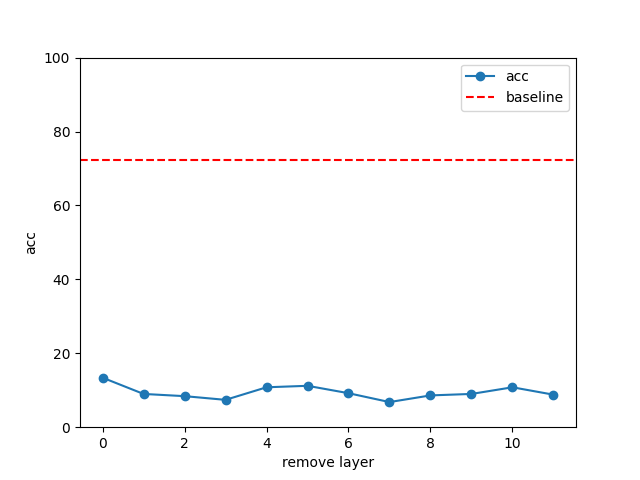
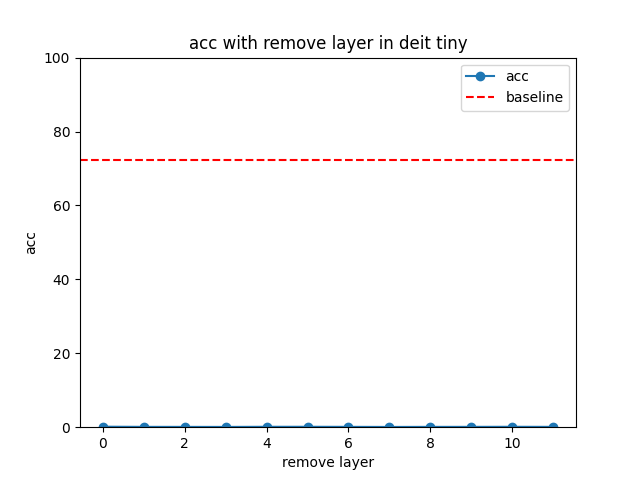
add deit small and tiny results

diff --git a/plot/get_res_two.py b/plot/get_res_two.py
@@ -1,0 +1,47 @@
+import os
+# 绘图
+import matplotlib.pyplot as plt
+import numpy as np
+
+with open("log_small.txt") as f:
+    lines = f.readlines()
+    name = None
+    acc = None
+    acc_small_list = []
+    for line in lines:
+        if "test_acc1" in line:
+            acc = float(line[line.index("test_acc1")+12+1:line.index(', "test_acc5":')])
+            acc_small_list.append(acc)
+        else:
+            if name is not None and acc is not None:
+                print(name, acc)
+            name = line[:-1]
+            
+with open("log_tiny.txt") as f:
+    lines = f.readlines()
+    name = None
+    acc = None
+    acc_tiny_list = []
+    for line in lines:
+        if "test_acc1" in line:
+            acc = float(line[line.index("test_acc1")+12+1:line.index(', "test_acc5":')])
+            acc_tiny_list.append(acc)
+        else:
+            if name is not None and acc is not None:
+                print(name, acc)
+            name = line[:-1]
+# 绘制acc曲线
+x = np.arange(0, len(acc_small_list))
+plt.plot(x, acc_small_list, label="deit_small", marker='o')
+plt.plot(x, acc_tiny_list, label="deit_tiny", marker='o')
+plt.xlabel("remove layer")
+plt.ylabel("acc")
+# 画一条横线：baseline
+plt.axhline(y=79.9, color='r', linestyle='--', label="baseline_small")
+plt.axhline(y=72.2, color='g', linestyle='--', label="baseline_tiny")
+# 设置y轴范围
+plt.ylim(0, 100)
+# 设置title
+plt.title("acc with remove layer in deit small and tiny")
+plt.legend()
+plt.savefig("remove_acc.png")

diff --git a/plot/get_res_small.py b/plot/get_res_small.py
@@ -1,0 +1,31 @@
+import os
+# 绘图
+import matplotlib.pyplot as plt
+import numpy as np
+
+with open("log_small.txt") as f:
+    lines = f.readlines()
+    name = None
+    acc = None
+    acc_list = []
+    for line in lines:
+        if "test_acc1" in line:
+            acc = float(line[line.index("test_acc1")+12+1:line.index(', "test_acc5":')])
+            acc_list.append(acc)
+        else:
+            if name is not None and acc is not None:
+                print(name, acc)
+            name = line[:-1]
+# 绘制acc曲线
+x = np.arange(0, len(acc_list))
+plt.plot(x, acc_list, label="acc", marker='o')
+plt.xlabel("remove layer")
+plt.ylabel("acc")
+# 画一条横线：baseline
+plt.axhline(y=79.9, color='r', linestyle='--', label="baseline")
+# 设置y轴范围
+plt.ylim(0, 100)
+# 设置title
+plt.title("acc with remove layer in deit small")
+plt.legend()
+plt.savefig("remove_acc_small.png")

diff --git a/plot/get_res_tiny.py b/plot/get_res_tiny.py
@@ -3,7 +3,7 @@ import os
 import matplotlib.pyplot as plt
 import numpy as np
 
-with open("log.txt") as f:
+with open("log_tiny.txt") as f:
     lines = f.readlines()
     name = None
     acc = None
@@ -11,7 +11,7 @@ with open("log.txt") as f:
     for line in lines:
         if "test_acc1" in line:
             acc = float(line[line.index("test_acc1")+12+1:line.index(', "test_acc5":')])
-            acc_list.append(acc*100)
+            acc_list.append(acc)
         else:
             if name is not None and acc is not None:
                 print(name, acc)
@@ -25,5 +25,7 @@ plt.ylabel("acc")
 plt.axhline(y=72.2, color='r', linestyle='--', label="baseline")
 # 设置y轴范围
 plt.ylim(0, 100)
+# 设置title
+plt.title("acc with remove layer in deit tiny")
 plt.legend()
 plt.savefig("remove_acc_tiny.png")

diff --git a/deit/main.py b/deit/main.py
@@ -45,7 +45,7 @@ def swap_special_id_activation(model, target_id, current=""):
             
 def get_args_parser():
     parser = argparse.ArgumentParser('DeiT training and evaluation script', add_help=False)
-    parser.add_argument('--batch-size', default=1024, type=int)
+    parser.add_argument('--batch-size', default=512, type=int)
     parser.add_argument('--epochs', default=300, type=int)
     parser.add_argument('--bce-loss', action='store_true')
     parser.add_argument('--unscale-lr', action='store_true')
